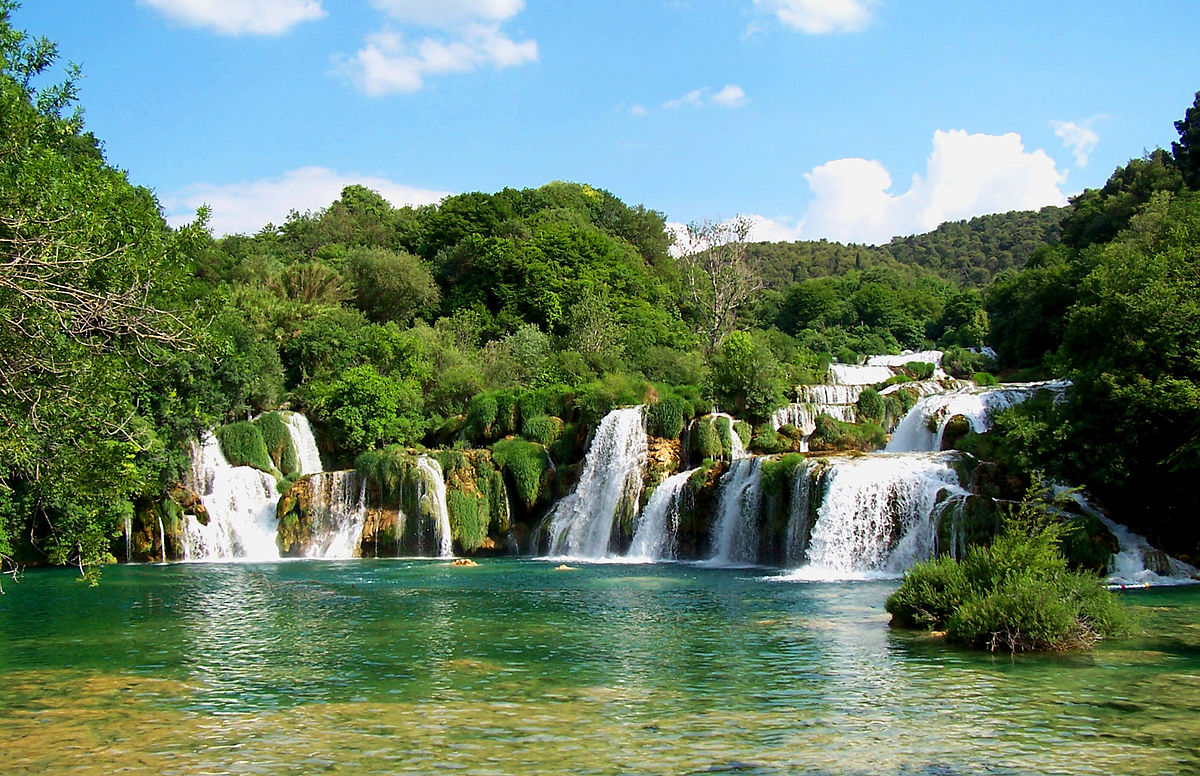
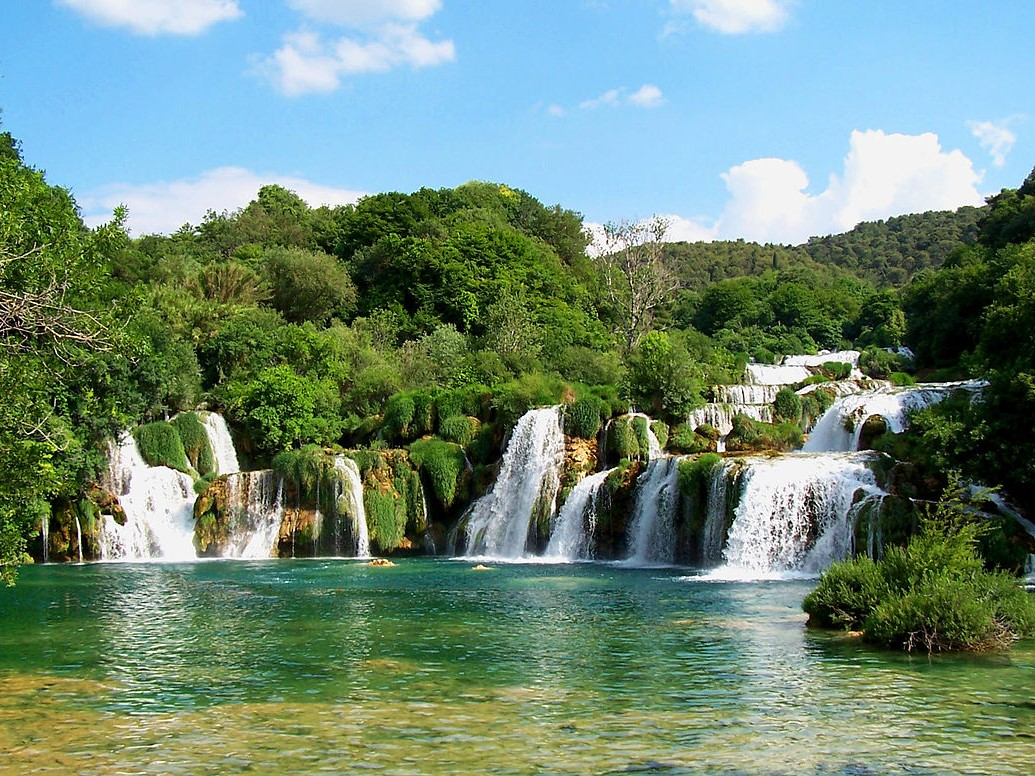
TripItem component added

diff --git a/src/pages/index.js b/src/pages/index.js
@@ -1,10 +1,10 @@
 import React from "react";
 import { graphql } from "gatsby";
-import { Layout } from "../components";
-import { MainImage } from "../components";
-import mainPhoto  from "../images/plitvice.jpg";
+import { Layout, Container, MainImage, TripItem } from "../components";
 import krkaPhoto from "../images/krka 4x3.jpg";
-
+import zipPhoto from "../images/zip 4x3.jpg";
+import blueCavePhoto from "../images/blue cave 4x3.jpg";
+import raftingPhoto from "../images/rafting 4x3.jpg";
 
 
 export default ({
@@ -17,7 +17,27 @@ export default ({
   return (
     <Layout>
       <MainImage />
-      <img src={krkaPhoto} alt="Krka" class="item-image" width="50%" />
+
+      <Container>
+        <TripItem>
+        <img src={krkaPhoto} alt="Krka" width= "100%"/>
+        <p>Krka Waterfalls</p>
+        </TripItem>
+        <TripItem>
+        <img src={zipPhoto} alt="Zip line" width= "100%"/>
+        <p>Zip line</p>
+        </TripItem>
+        <TripItem>
+        <img src={blueCavePhoto} alt="Blue Cave" width= "100%"/>
+        <p>Blue Cave</p>
+        </TripItem>
+        <TripItem>
+        <img src={raftingPhoto} alt="Rafting" width= "100%"/>
+        <p>Rafting</p>
+        </TripItem>
+      </Container>
+      
+      <h1>{title}</h1>
       <h1>{title}</h1>
       <p>{description}</p>
     </Layout>

diff --git a/src/components/index.js b/src/components/index.js
@@ -3,3 +3,4 @@ export { default as Container } from "./Container";
 export { default as Layout } from "./Layout";
 export { default as BlogIndex } from "./BlogIndex";
 export { default as MainImage } from "./MainImage";
+export { default as TripItem } from "./TripItem";

diff --git a/src/components/TripItem/styles.module.css b/src/components/TripItem/styles.module.css
@@ -1,0 +1,10 @@
+.TripItem {
+  background-color: rgb(211, 245, 255);
+  width: 50%;
+  display: flex;
+  flex-direction: column;
+  align-items: center;
+  margin: 30px auto;
+  cursor: pointer;
+}
+  

diff --git a/src/components/TripItem/index.js b/src/components/TripItem/index.js
@@ -1,0 +1,6 @@
+import React from "react";
+import styles from "./styles.module.css";
+
+export default ({ children }) => (
+  <div className={styles.TripItem}> {children} </div>
+);

diff --git a/src/components/MainImage/styles.module.css b/src/components/MainImage/styles.module.css
@@ -1,5 +1,6 @@
 .mainImage {
     width: 100%;
     height: 45%;
+    cursor: pointer;
   }
   

diff --git a/src/components/Container/styles.module.css b/src/components/Container/styles.module.css
@@ -2,4 +2,5 @@
   margin: 0 auto;
   max-width: 1000px;
   width: 90%;
+  
 }
